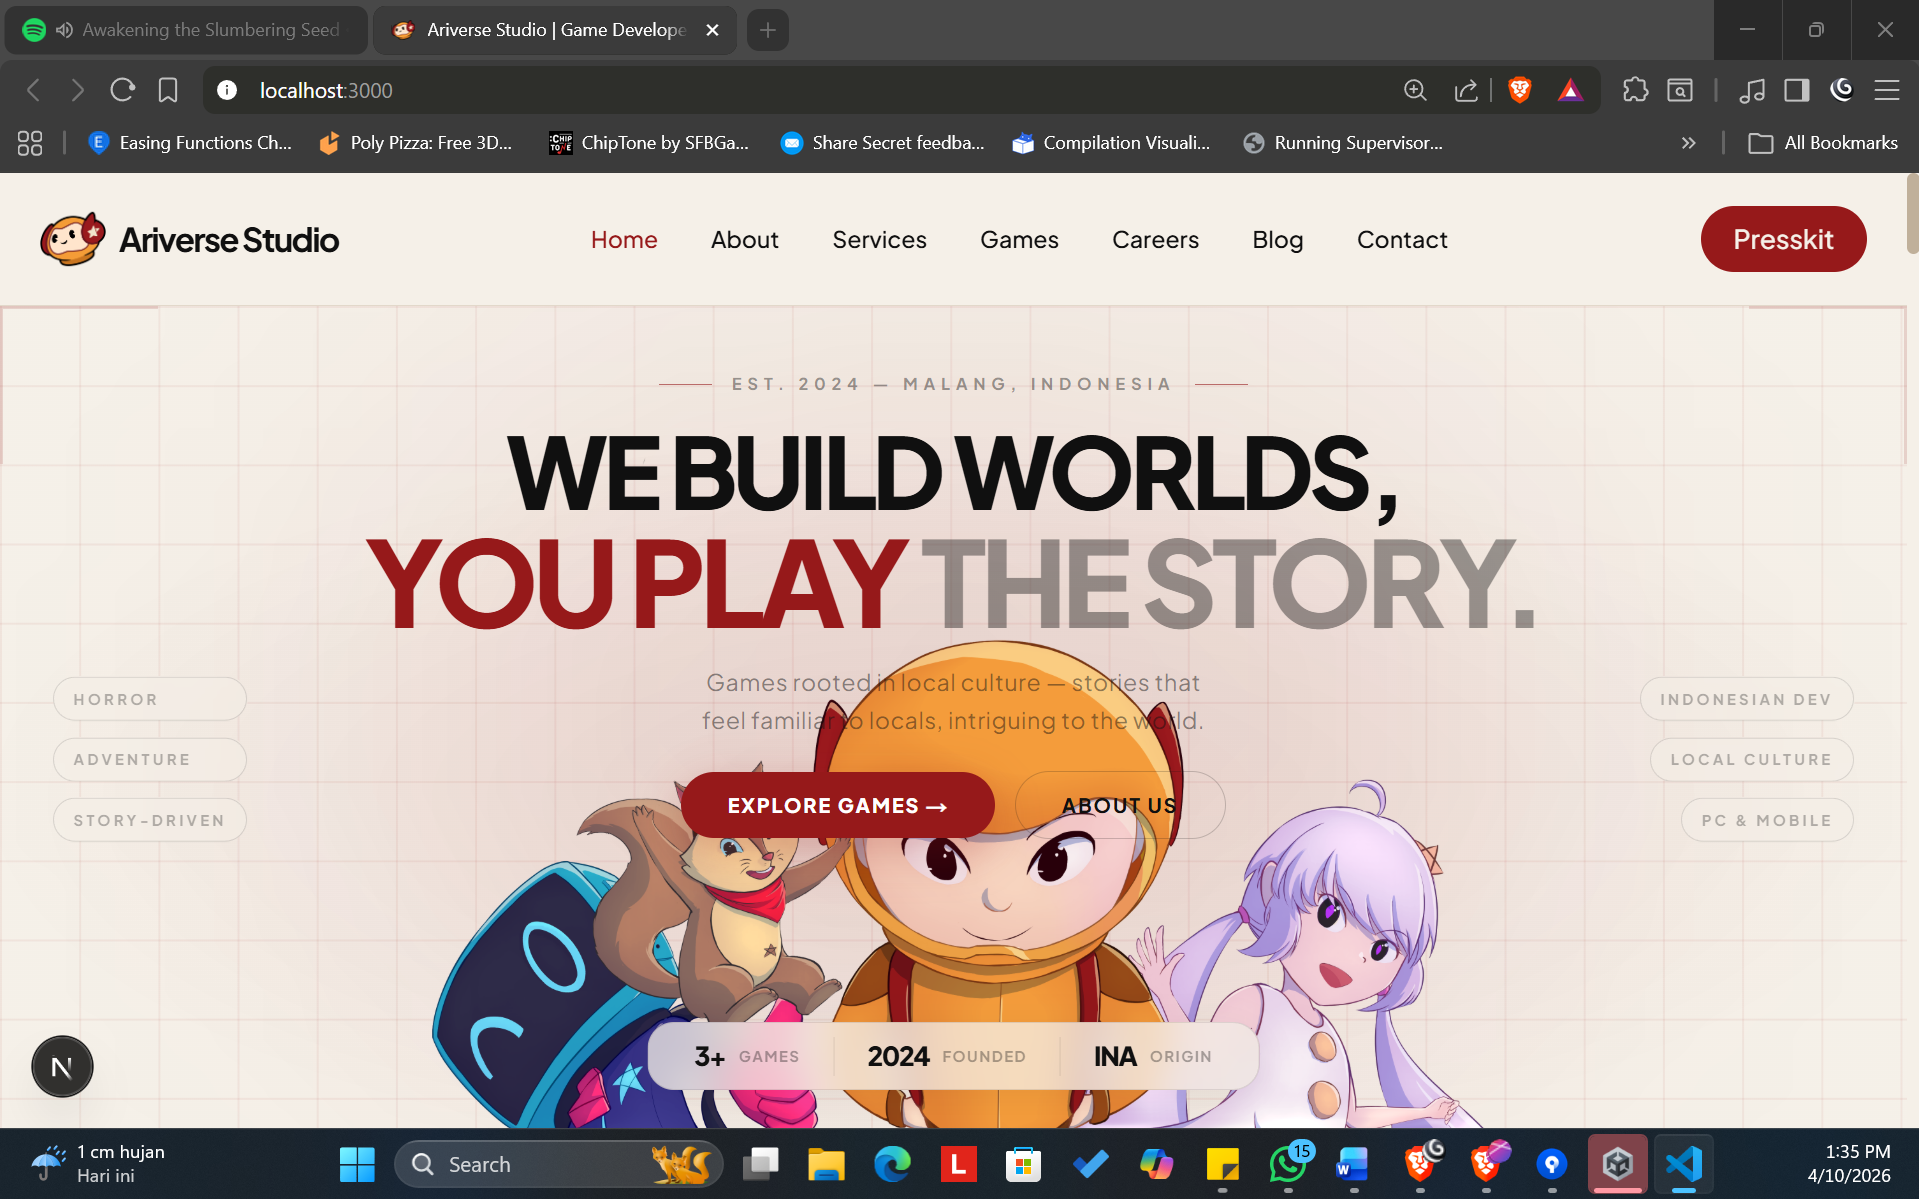
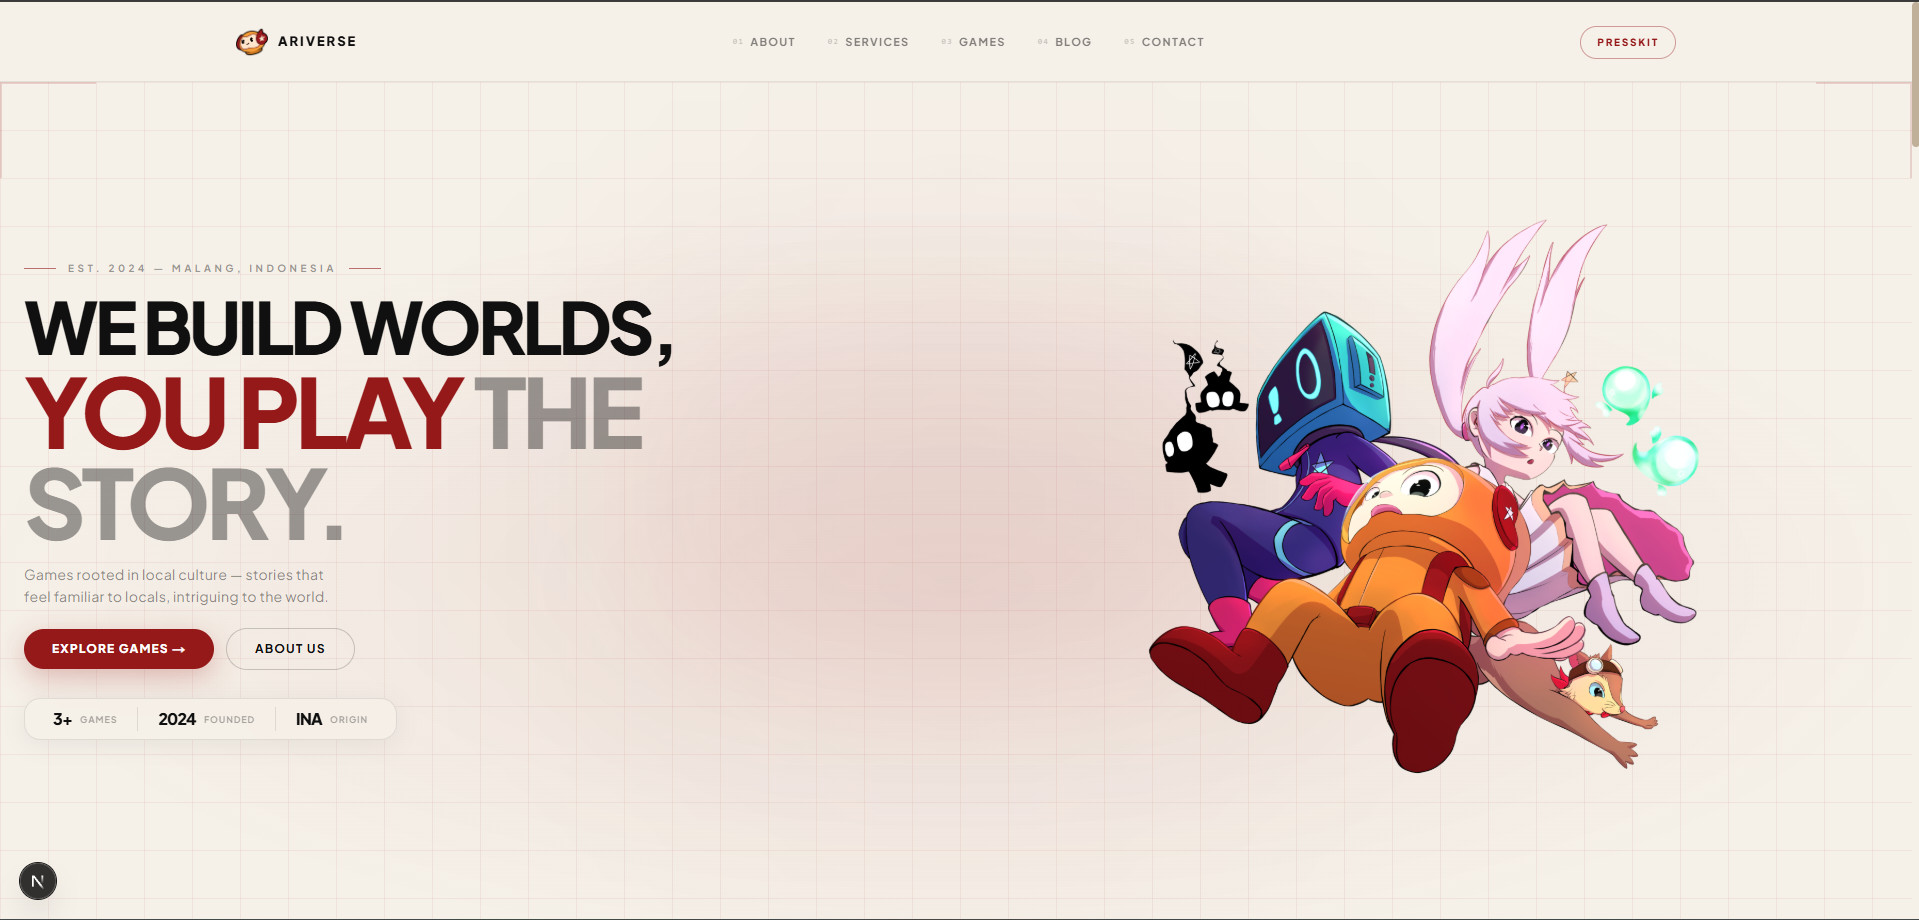
feat: update HeroSection layout and styles for improved responsiveness and visual appeal

diff --git a/app/components/home/HeroSection.tsx b/app/components/home/HeroSection.tsx
@@ -6,14 +6,14 @@ import { motion } from "framer-motion";
 
 export default function HeroSection() {
   return (
-    <section className="relative h-[calc(100vh-5rem)] overflow-hidden flex flex-col items-center justify-start pt-8 md:pt-10 px-5 md:px-6">
+    <section className="relative min-h-[calc(100vh-5rem)] overflow-hidden py-8 md:py-10 pb-0">
 
       {/* Background grid */}
       <div
         className="absolute inset-0 z-0 pointer-events-none"
         style={{
           backgroundImage: `linear-gradient(rgba(150,25,26,0.06) 1px, transparent 1px), linear-gradient(90deg, rgba(150,25,26,0.06) 1px, transparent 1px)`,
-          backgroundSize: "48px 48px",
+          backgroundSize: "72px 72px",
         }}
       />
 
@@ -32,15 +32,17 @@ export default function HeroSection() {
       <div className="absolute top-0 left-0 w-16 h-16 md:w-24 md:h-24 border-l-2 border-t-2 border-accent/15 pointer-events-none z-0" />
       <div className="absolute top-0 right-0 w-16 h-16 md:w-24 md:h-24 border-r-2 border-t-2 border-accent/15 pointer-events-none z-0" />
 
-      {/* Hero copy */}
-      <div className="relative z-10 flex flex-col items-center gap-3 md:gap-4 w-full max-w-5xl text-center">
+      <div className="relative z-10 max-w-[1440px] mx-auto px-4 md:px-6 flex flex-col-reverse lg:flex-row items-center gap-4">
+
+        {/* Left column: Text */}
+        <div className="flex flex-col items-center lg:items-start gap-3 md:gap-4 w-full lg:w-3/5 text-center lg:text-left">
 
         {/* Eyebrow */}
         <motion.div
           initial={{ opacity: 0 }}
           animate={{ opacity: 1 }}
           transition={{ duration: 0.45, ease: "easeOut" }}
-          className="flex items-center gap-3"
+          className="flex items-center gap-3 justify-center lg:justify-start"
         >
           <span className="w-8 h-px bg-accent/60" />
           <span className="text-[10px] font-bold tracking-[0.35em] uppercase text-foreground/40">
@@ -65,12 +67,12 @@ export default function HeroSection() {
           </span>
         </motion.h1>
 
-        {/* Tagline — hidden on very small screens */}
+        {/* Tagline */}
         <motion.p
           initial={{ opacity: 0 }}
           animate={{ opacity: 1 }}
           transition={{ duration: 0.4, delay: 0.18 }}
-          className="hidden sm:block text-xs md:text-sm text-foreground/45 tracking-wide max-w-xs leading-relaxed"
+          className="text-xs md:text-sm text-foreground/45 tracking-wide max-w-xs leading-relaxed"
         >
           Games rooted in local culture — stories that feel familiar to locals, intriguing to the world.
         </motion.p>
@@ -80,7 +82,7 @@ export default function HeroSection() {
           initial={{ opacity: 0, y: 6 }}
           animate={{ opacity: 1, y: 0 }}
           transition={{ duration: 0.4, delay: 0.26 }}
-          className="flex items-center gap-2.5 md:gap-3 mt-1 flex-wrap justify-center"
+          className="flex items-center gap-2.5 md:gap-3 mt-1 flex-wrap justify-center lg:justify-start"
         >
           <Link
             href="/games"
@@ -95,70 +97,46 @@ export default function HeroSection() {
             ABOUT US
           </Link>
         </motion.div>
+
+        {/* Stats pill */}
+        <motion.div
+          initial={{ opacity: 0, y: 10 }}
+          animate={{ opacity: 1, y: 0 }}
+          transition={{ duration: 0.4, delay: 0.35 }}
+          className="flex items-center divide-x divide-foreground/10 bg-background/75 backdrop-blur-md border border-foreground/10 rounded-xl md:rounded-2xl px-1 md:px-2 py-1.5 md:py-2 shadow-[0_4px_24px_rgba(0,0,0,0.06)] mt-3"
+        >
+          {[
+            { num: "3+", label: "Games" },
+            { num: "2024", label: "Founded" },
+            { num: "INA", label: "Origin" },
+          ].map((s) => (
+            <div key={s.label} className="flex items-center gap-1.5 md:gap-2 px-3.5 md:px-5 py-0.5 md:py-1">
+              <p className="text-sm md:text-base font-black text-foreground tracking-tighter leading-none">{s.num}</p>
+              <p className="text-[8px] md:text-[9px] text-foreground/35 font-bold tracking-widest uppercase leading-tight">{s.label}</p>
+            </div>
+          ))}
+        </motion.div>
       </div>
 
-      {/* Floating tags — left (desktop only) */}
-      <motion.div
-        initial={{ opacity: 0 }}
-        animate={{ opacity: 1, x: 0 }}
-        transition={{ duration: 0.4, delay: 0.4 }}
-        className="absolute left-8 top-1/2 -translate-y-1/4 z-10 flex-col gap-2.5 hidden lg:flex"
-      >
-        {["Horror", "Adventure", "Story-Driven"].map((tag) => (
-          <span key={tag} className="text-[9px] font-bold tracking-[0.22em] uppercase text-foreground/30 border border-foreground/12 px-3 py-1.5 rounded-full bg-background/40 backdrop-blur-sm">
-            {tag}
-          </span>
-        ))}
-      </motion.div>
+      {/* Right column: Image */}
+      <div className="relative z-10 w-full lg:w-2/5 flex justify-center">
+        <motion.div
+          initial={{ opacity: 0, y: 12 }}
+          animate={{ opacity: 1, y: 0 }}
+          transition={{ duration: 0.6, delay: 0.2, ease: "easeOut" }}
+          className="relative w-full max-w-lg lg:max-w-xl aspect-square"
+        >
+          <Image
+            src="/images/Key-Characters-Creatures.png"
+            alt="Ariverse characters"
+            fill
+            className="object-contain"
+            priority
+          />
+        </motion.div>
+      </div>
 
-      {/* Floating tags — right (desktop only) */}
-      <motion.div
-        initial={{ opacity: 0 }}
-        animate={{ opacity: 1, x: 0 }}
-        transition={{ duration: 0.4, delay: 0.45 }}
-        className="absolute right-8 top-1/2 -translate-y-1/4 z-10 flex-col gap-2.5 items-end hidden lg:flex"
-      >
-        {["Indonesian Dev", "Local Culture", "PC & Mobile"].map((tag) => (
-          <span key={tag} className="text-[9px] font-bold tracking-[0.22em] uppercase text-foreground/30 border border-foreground/12 px-3 py-1.5 rounded-full bg-background/40 backdrop-blur-sm">
-            {tag}
-          </span>
-        ))}
-      </motion.div>
-
-      {/* Character image */}
-      <motion.div
-        initial={{ opacity: 0, y: 12 }}
-        animate={{ opacity: 1, y: 0 }}
-        transition={{ duration: 0.6, delay: 0.2, ease: "easeOut" }}
-        className="absolute bottom-0 left-1/2 -translate-x-1/2 z-0 w-[min(770px,105vw)] h-[48vh] sm:h-[58vh] md:h-[65vh] lg:h-[72vh]"
-      >
-        <Image
-          src="/Characters LineUp.png"
-          alt="Ariverse characters"
-          fill
-          className="object-contain object-bottom"
-          priority
-        />
-      </motion.div>
-
-      {/* Stats pill */}
-      <motion.div
-        initial={{ opacity: 0, y: 10 }}
-        animate={{ opacity: 1, y: 0 }}
-        transition={{ duration: 0.4, delay: 0.35 }}
-        className="absolute bottom-5 md:bottom-6 left-1/2 -translate-x-1/2 z-10 flex items-center divide-x divide-foreground/10 bg-background/75 backdrop-blur-md border border-foreground/10 rounded-xl md:rounded-2xl px-1 md:px-2 py-1.5 md:py-2 shadow-[0_4px_24px_rgba(0,0,0,0.06)]"
-      >
-        {[
-          { num: "3+", label: "Games" },
-          { num: "2024", label: "Founded" },
-          { num: "INA", label: "Origin" },
-        ].map((s) => (
-          <div key={s.label} className="flex items-center gap-1.5 md:gap-2 px-3.5 md:px-5 py-0.5 md:py-1">
-            <p className="text-sm md:text-base font-black text-foreground tracking-tighter leading-none">{s.num}</p>
-            <p className="text-[8px] md:text-[9px] text-foreground/35 font-bold tracking-widest uppercase leading-tight">{s.label}</p>
-          </div>
-        ))}
-      </motion.div>
+    </div>
 
     </section>
   );

diff --git a/app/(site)/page.tsx b/app/(site)/page.tsx
@@ -43,7 +43,7 @@ export default async function Home() {
       <HeroSection />
 
       {/* 2. Who We Are */}
-      <div className="relative w-full py-28">
+      <div className="relative w-full py-16 md:py-20">
 
         {/* Grid background */}
         <div
